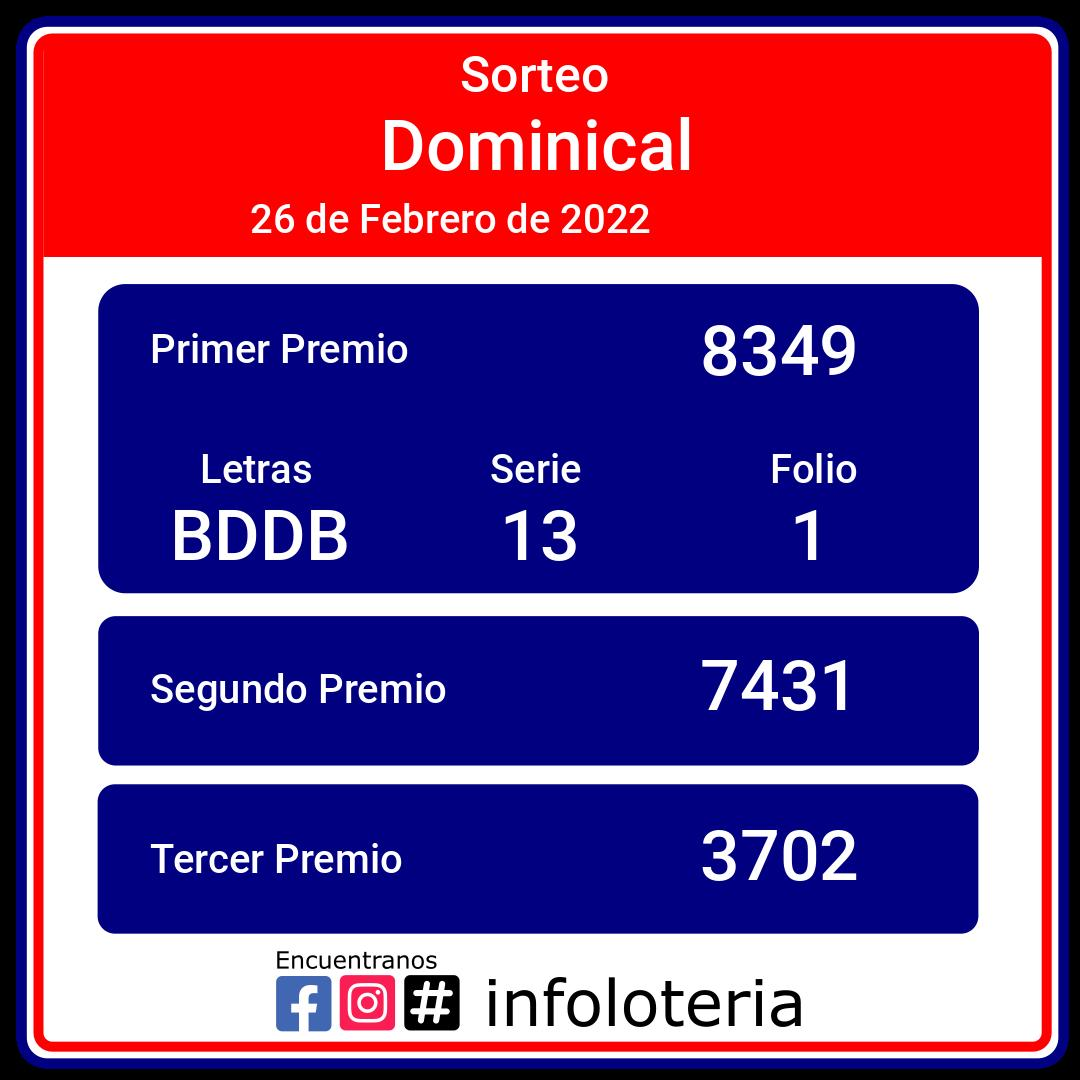
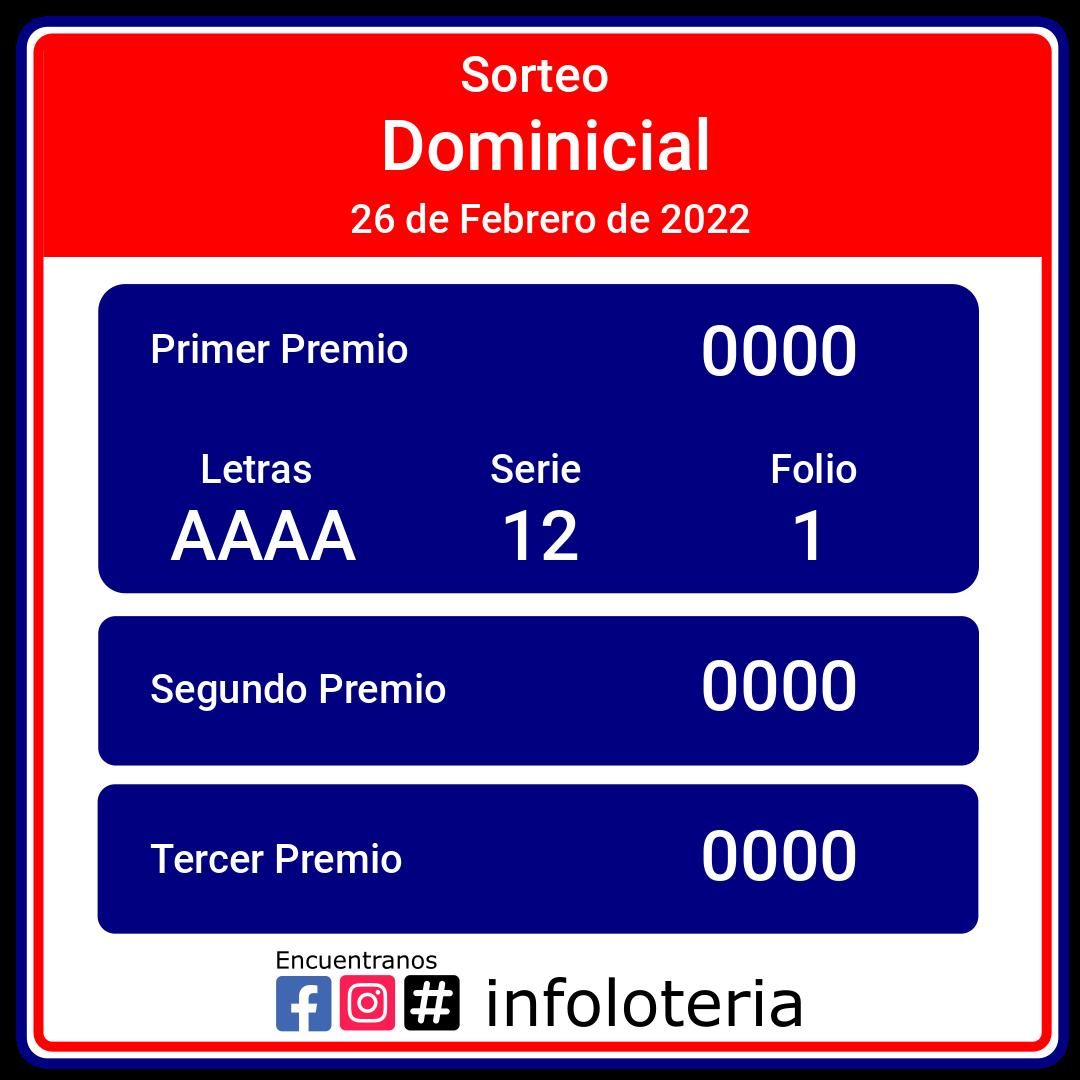
Se han realizado ajustes sobre el formato de imagen y centrado de datos de la imagen

diff --git a/spiderdata.py b/spiderdata.py
@@ -4,11 +4,13 @@ import firebase_admin
 from firebase_admin import credentials,db
 from firebase_admin import firestore
 
-import requests
 from bs4 import BeautifulSoup
-from datetime import *
-import os
+
 from PIL import Image,ImageDraw,ImageFont
+
+from datetime import *
+import requests
+import os
 import time
 
 import facebook
@@ -30,8 +32,8 @@ dataCredentials = {
   "client_x509_cert_url": os.getenv('CLIENT_X509_CERT_URL'),
 }
 
-fb_token = os.getenv('FB_TOKEN')
-token = fb_token
+# Facebook SDK
+token = os.getenv('FB_TOKEN')
 graph = facebook.GraphAPI(token)
 
 # Configuración de Firebase
@@ -49,15 +51,15 @@ ahora = datetime.now()
 horario = ahora.strftime('%H:%M:%S')
 
 # Verifica si es hora de correr la consulta
-if (horario >= "00:00:01" and horario <= "23:59:00"):
-# if (horario >= "13:45:00" and horario <= "14:30:00"):
+if (horario >= "00: 00:01" and horario <= "23:59:00"):
+# if (horario >= "13:45:00" and horario <= "14:45:00"):
 
     ano_hoy = ahora.strftime('%Y')
     mes_hoy = ahora.strftime('%m')
 
     # Periodo que buscará
     anos = [ano_hoy]
-    mes = ['02']
+    mes = ['02',mes_hoy]
 
     # Recorrido
     ia = 0
@@ -71,127 +73,131 @@ if (horario >= "00:00:01" and horario <= "23:59:00"):
             soup = BeautifulSoup(r.content, 'html.parser')
             data = soup.find_all('strong')
         
+            # Verifica si hay datos de sorteos
+            if len(data) > 11:
 
-            # Coloca los valores obtenidos por BS
-            i = 10
-            dias = ['Domingo','Lunes','Martes','Miércoles','Jueves','Viernes','Sábado']
-            meses = ['Enero','Febrero','Marzo','Abril','Mayo','Junio','Julio','Agosto','Septiembre','Octubre','Noviembre','Diciembre']
+                # Coloca los valores obtenidos por BS
+                i = 10
+                dias = ['Domingo','Lunes','Martes','Miércoles','Jueves','Viernes','Sábado']
+                meses = ['Enero','Febrero','Marzo','Abril','Mayo','Junio','Julio','Agosto','Septiembre','Octubre','Noviembre','Diciembre']
 
-            data_len = len(data)
-            for d in data:
-                if i < data_len:
-                    try:
-                        # Define campos según fecha del sorteo
-                        tipo_sorteo = data[i].text
-                        if tipo_sorteo == 'Intermedio':
-                            tipo_sorteo = 'Miercolito'
-                        if tipo_sorteo == 'Dominical':
-                            tipo_sorteo = 'Dominical'
-                        if tipo_sorteo == 'Zodiaco':
-                            tipo_sorteo = 'Gordito del Zodiaco'
-                        if tipo_sorteo == 'Extraordinaria':
-                            tipo_sorteo = 'Extraordinario'
+                data_len = len(data)
+                for d in data:
+                    if i < data_len:
+                        try:
+                            # Define campos según fecha del sorteo
+                            tipo_sorteo = data[i].text
+                            if tipo_sorteo == 'Intermedio':
+                                tipo_sorteo = 'Miercolito'
+                            if tipo_sorteo == 'Dominical':
+                                tipo_sorteo = 'Dominical'
+                            if tipo_sorteo == 'Zodiaco':
+                                tipo_sorteo = 'Gordito del Zodiaco'
+                            if tipo_sorteo == 'Extraordinaria':
+                                tipo_sorteo = 'Extraordinario'
 
-                        fecha_sorteo = datetime(int(data[i+1].text[-4:]),int(data[i+1].text[3:5]),int(data[i+1].text[:2]))
+                            fecha_sorteo = datetime(int(data[i+1].text[-4:]),int(data[i+1].text[3:5]),int(data[i+1].text[:2]))
 
-                        fecha_sorteo_cap = datetime(int(data[i+1].text[-4:]),int(data[i+1].text[3:5]),int(data[i+1].text[:2]))
-                        fecha_sorteo = str(fecha_sorteo.day) + ' de ' + meses[int(fecha_sorteo.strftime("%m"))-1] + ' de ' + fecha_sorteo.strftime("%Y")
-                        fecha_sort = fecha_sorteo_cap.strftime("%Y%m%d")
-                        primer_premio = data[i+2].text
-                        letras = data[i+3].text
-                        serie = int(data[i+4].text)
-                        folio = int(data[i+5].text)
-                        segundo_premio = data[i+6].text
-                        tercer_premio = data[i+7].text
-                        creado = ahora
+                            fecha_sorteo_cap = datetime(int(data[i+1].text[-4:]),int(data[i+1].text[3:5]),int(data[i+1].text[:2]))
+                            fecha_sorteo = str(fecha_sorteo.day) + ' de ' + meses[int(fecha_sorteo.strftime("%m"))-1] + ' de ' + fecha_sorteo.strftime("%Y")
+                            fecha_sort = fecha_sorteo_cap.strftime("%Y%m%d")
+                            primer_premio = data[i+2].text
+                            letras = data[i+3].text
+                            serie = int(data[i+4].text)
+                            folio = int(data[i+5].text)
+                            segundo_premio = data[i+6].text
+                            tercer_premio = data[i+7].text
+                            creado = ahora
 
-                        print(tipo_sorteo,fecha_sorteo,fecha_sorteo_cap,fecha_sort,primer_premio,letras,serie,folio,segundo_premio,tercer_premio)
-                        
-                        datasorteo = {
-                            'fecha_sorteo': fecha_sorteo,
-                            'fecha_sort': fecha_sort,
-                            'tipo_sorteo': tipo_sorteo,
-                            'primer_premio': primer_premio,
-                            'letras': letras,
-                            'serie': serie,
-                            'folio': folio,
-                            'segundo_premio': segundo_premio,
-                            'tercer_premio': tercer_premio,
-                            'creado': ahora
-                        }
-                        
-                        # Verifica los datos están completos
-                        if (tipo_sorteo != 'Gordito del Zodiaco' and len(tercer_premio) == 4) or (tipo_sorteo == 'Gordito del Zodiaco' and len(tercer_premio) == 2):
-                            # Verifica si el número y tipo de sorteo existe 
-                            docs = db.collection(u'sorteos').where(u'fecha_sort', u'==', fecha_sort).get()
+                            print(tipo_sorteo,fecha_sorteo,fecha_sorteo_cap,fecha_sort,primer_premio,letras,serie,folio,segundo_premio,tercer_premio)
+                            
+                            datasorteo = {
+                                'fecha_sorteo': fecha_sorteo,
+                                'fecha_sort': fecha_sort,
+                                'tipo_sorteo': tipo_sorteo,
+                                'primer_premio': primer_premio,
+                                'letras': letras,
+                                'serie': serie,
+                                'folio': folio,
+                                'segundo_premio': segundo_premio,
+                                'tercer_premio': tercer_premio,
+                                'creado': ahora
+                            }
+                            
+                            # Verifica los datos están completos
+                            if (tipo_sorteo != 'Gordito del Zodiaco' and len(tercer_premio) == 4) or (tipo_sorteo == 'Gordito del Zodiaco' and len(tercer_premio) == 2):
+                                # Verifica si el número y tipo de sorteo existe 
+                                docs = db.collection(u'sorteos').where(u'fecha_sort', u'==', fecha_sort).get()
 
-                        # Verifica si el número y tipo de sorteo existe
-                        if docs == []:
-                            print('No existe') 
-                            doc_ref = db.collection(u'sorteos').document()
-                            doc_ref.set(datasorteo)
-                            print('Registro creado en Firebase')                                 
+                            # Verifica si el número y tipo de sorteo existe
+                            if docs == []:
+                                print('No existe') 
+                                doc_ref = db.collection(u'sorteos').document()
+                                doc_ref.set(datasorteo)
+                                print('Registro creado en Firebase')
 
-                            img = Image.open("./source-images/temp_ig.png")
+                                
 
-                            font_base = './fonts/Roboto-Medium.ttf'
+                                img = Image.open("./source-images/temp_bot.jpg")
 
-                            font_h1 = ImageFont.truetype(font_base,70)
-                            font_h2 = ImageFont.truetype(font_base,40)
-                            font_h3 = ImageFont.truetype(font_base,50)
+                                font_base = './fonts/Roboto-Medium.ttf'
 
-                            color_a = (255,255,255)
-                            x = 0
-                            y = 45
-                            draw = ImageDraw.Draw(img)
-                            draw.text((460+x, 0+y), "Sorteo",fill=color_a,font=font_h3)
-                            draw.text((380+x, 60+y), tipo_sorteo,fill=color_a,font=font_h1)
-                            draw.text((250+x, 150+y), fecha_sorteo,fill=color_a,font=font_h2)
+                                font_h1 = ImageFont.truetype(font_base,70)
+                                font_h2 = ImageFont.truetype(font_base,40)
+                                font_h3 = ImageFont.truetype(font_base,50)
 
-                            draw.text((150+x, 280+y), "Primer Premio",fill=color_a,font=font_h2)
-                            draw.text((700+x, 265+y), primer_premio,fill=color_a,font=font_h1)
+                                color_a = (255,255,255)
+                                x = 0
+                                y = 45
+                                draw = ImageDraw.Draw(img)
+                                draw.text((460+x, 0+y), "Sorteo",fill=color_a,font=font_h3)
+                                draw.text((380+x, 60+y), tipo_sorteo,fill=color_a,font=font_h1)
+                                draw.text((350+x, 150+y), fecha_sorteo,fill=color_a,font=font_h2)
 
-                            draw.text((200+x, 400+y), "Letras",fill=color_a,font=font_h2)
-                            draw.text((490+x, 400+y), "Serie",fill=color_a,font=font_h2)
-                            draw.text((770+x, 400+y), "Folio",fill=color_a,font=font_h2)
+                                draw.text((150+x, 280+y), "Primer Premio",fill=color_a,font=font_h2)
+                                draw.text((700+x, 265+y), primer_premio,fill=color_a,font=font_h1)
 
-                            draw.text((170+x, 450+y), letras,fill=color_a,font=font_h1)
-                            draw.text((500+x, 450+y), str(serie),fill=color_a,font=font_h1)
-                            draw.text((790+x, 450+y), str(folio),fill=color_a,font=font_h1)
+                                draw.text((200+x, 400+y), "Letras",fill=color_a,font=font_h2)
+                                draw.text((490+x, 400+y), "Serie",fill=color_a,font=font_h2)
+                                draw.text((770+x, 400+y), "Folio",fill=color_a,font=font_h2)
 
-                            draw.text((150+x, 620+y), "Segundo Premio",fill=color_a,font=font_h2)
-                            draw.text((700+x, 600+y), segundo_premio,fill=color_a,font=font_h1)
+                                draw.text((170+x, 450+y), letras,fill=color_a,font=font_h1)
+                                draw.text((500+x, 450+y), str(serie),fill=color_a,font=font_h1)
+                                draw.text((790+x, 450+y), str(folio),fill=color_a,font=font_h1)
 
-                            draw.text((150+x, 790+y), "Tercer Premio",fill=color_a,font=font_h2)
-                            draw.text((700+x, 770+y), tercer_premio,fill=color_a,font=font_h1)
+                                draw.text((150+x, 620+y), "Segundo Premio",fill=color_a,font=font_h2)
+                                draw.text((700+x, 600+y), segundo_premio,fill=color_a,font=font_h1)
 
-                            img.save("./saved-images/post.png")
-                            # Convertir PNG a JPG
-                            img2 = Image.open("./saved-images/post.png")
-                            img_rgb = img2.convert('RGB') 
-                            img_rgb.save("./saved-images/post.jpg")
+                                draw.text((150+x, 790+y), "Tercer Premio",fill=color_a,font=font_h2)
+                                draw.text((700+x, 770+y), tercer_premio,fill=color_a,font=font_h1)
 
-                            time.sleep(2)
+                                # img.save("./saved-images/post.png")
+                                # Convertir PNG a JPG
+                                # img2 = Image.open("./saved-images/post.png")
+                                # img_rgb = img2.convert('RGB') 
+                                img.save("./saved-images/post.jpg")
 
-                            fb_rx = graph.put_object('102607489042095','photos',url='https://loteriapan.herokuapp.com/saved-images/post.png',caption='Los ganadores 😀')
-                            print('Publicada en FB!')
+                                time.sleep(2)
 
-                            fb_rx_a = graph.put_object('17841452380183145','media',image_url='https://loteriapan.herokuapp.com/saved-images/post.jpg',caption='es una prueba con foto y 😀')
-                            print(fb_rx_a)
+                                fb_rx = graph.put_object('102607489042095','photos',url='https://loteriapan.herokuapp.com/saved-images/post.jpg',caption='Los ganadores 😀')
+                                print('Publicada en FB!')
 
-                            fb_rx_b = graph.put_object('17841452380183145','media_publish',creation_id=fb_rx_a['id'],caption='es una prueba con foto y 😀')
-                            # print(fb_rx_b)
+                                fb_rx_a = graph.put_object('17841452380183145','media',image_url='https://loteriapan.herokuapp.com/saved-images/post.jpg',caption='es una prueba con foto y 😀')
+                                print(fb_rx_a)
 
-                            print('Publicada en IG!')
-                        
-                        i = i+8
-                        print('i: ',i)
-                    except IndexError:
-                        pass
-                    else:
-                        print ('No exception occurred')
+                                fb_rx_b = graph.put_object('17841452380183145','media_publish',creation_id=fb_rx_a['id'],caption='es una prueba con foto y 😀')
+                                # print(fb_rx_b)
 
-            im = im+1
+                                print('Publicada en IG!')
+                            
+                            i = i+8
+                            print('i: ',i)
+                        except IndexError:
+                            pass
+                        else:
+                            print ('No exception occurred')
+
+                im = im+1
         
         ia=ia+1
     

diff --git a/imgbuilder.py b/imgbuilder.py
@@ -23,27 +23,38 @@ font_h3 = ImageFont.truetype(font_base,50)
 color_a = (255,255,255)
 x = 0
 y = 45
+tipo_sorteo = 'Dominicial'
+fecha_sorteo = '26 de Febrero de 2022'
+primer_premio = '0000'
+letras = 'AAAA'
+serie = 12
+folio = 1
+segundo_premio = '0000'
+tercer_premio = '0000'
 draw = ImageDraw.Draw(img)
 draw.text((460+x, 0+y), "Sorteo",fill=color_a,font=font_h3)
-draw.text((380+x, 60+y), "Dominical",fill=color_a,font=font_h1)
-draw.text((250+x, 150+y), "Domingo 23 de Febrero de 2022",fill=color_a,font=font_h2)
+draw.text((380+x, 60+y), tipo_sorteo,fill=color_a,font=font_h1)
+draw.text((350+x, 150+y), fecha_sorteo,fill=color_a,font=font_h2)
 
 draw.text((150+x, 280+y), "Primer Premio",fill=color_a,font=font_h2)
-draw.text((700+x, 265+y), "0000",fill=color_a,font=font_h1)
+draw.text((700+x, 265+y), primer_premio,fill=color_a,font=font_h1)
 
 draw.text((200+x, 400+y), "Letras",fill=color_a,font=font_h2)
 draw.text((490+x, 400+y), "Serie",fill=color_a,font=font_h2)
 draw.text((770+x, 400+y), "Folio",fill=color_a,font=font_h2)
 
-draw.text((170+x, 450+y), "AAAA",fill=color_a,font=font_h1)
-draw.text((500+x, 450+y), "10",fill=color_a,font=font_h1)
-draw.text((790+x, 450+y), "1",fill=color_a,font=font_h1)
+draw.text((170+x, 450+y), letras,fill=color_a,font=font_h1)
+draw.text((500+x, 450+y), str(serie),fill=color_a,font=font_h1)
+draw.text((790+x, 450+y), str(folio),fill=color_a,font=font_h1)
 
 draw.text((150+x, 620+y), "Segundo Premio",fill=color_a,font=font_h2)
-draw.text((700+x, 600+y), "0000",fill=color_a,font=font_h1)
+draw.text((700+x, 600+y), segundo_premio,fill=color_a,font=font_h1)
 
 draw.text((150+x, 790+y), "Tercer Premio",fill=color_a,font=font_h2)
-draw.text((700+x, 770+y), "0000",fill=color_a,font=font_h1)
+draw.text((700+x, 770+y), tercer_premio,fill=color_a,font=font_h1)
 
-
-img.save("./saved-images/demotext.png")
+img.save("./saved-images/post.png")
+# Convertir PNG a JPG
+img2 = Image.open("./saved-images/post.png")
+img_rgb = img2.convert('RGB') 
+img_rgb.save("./saved-images/post.jpg")
